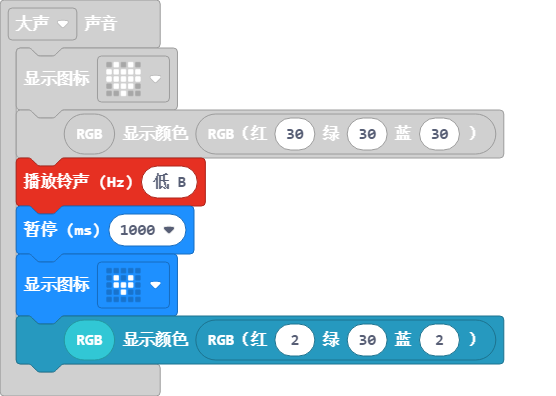
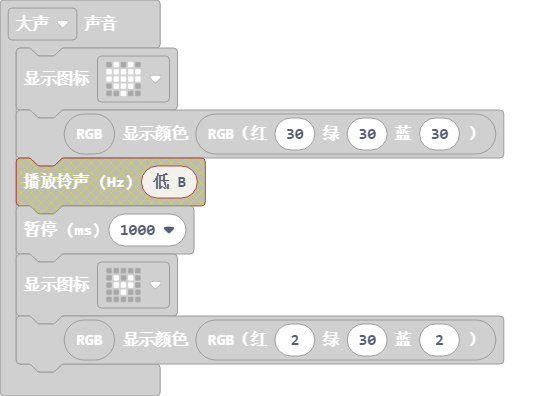
更新 main.blocks, main.ts

Changed region(s): [[0.0, 0.3939, 0.9173, 0.9394]]

diff --git a/main.ts b/main.ts
@@ -19,7 +19,6 @@ input.onButtonPressed(Button.B, function () {
 input.onSound(DetectedSound.Loud, function () {
     basic.showIcon(IconNames.Heart)
     robotbit.rgb().showColor(neopixel.rgb(30, 30, 30))
-    music.ringTone(247)
     basic.pause(1000)
     basic.showIcon(IconNames.SmallHeart)
     robotbit.rgb().showColor(neopixel.rgb(2, 30, 2))
